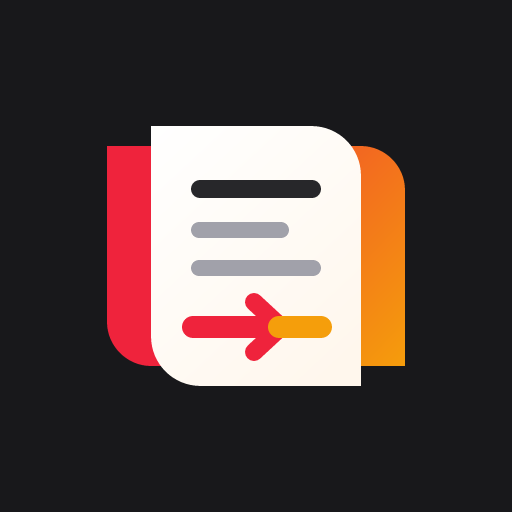
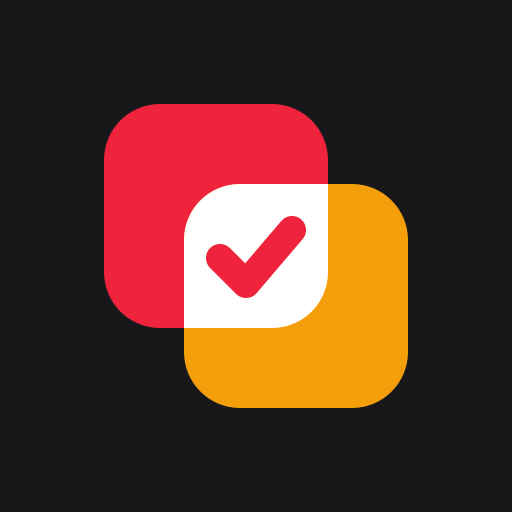
アプリのアイコンを、2つの履歴の重なりにチェックが付いた絵に変える (#133)
ブラウザのタブでは細部が潰れるため、チェックを省いた専用の絵を用意し、
初期テンプレートのままだった favicon.ico もそこから生成する。

Changed region(s): [[0.1875, 0.1875, 0.8125, 0.8125]]

diff --git a/app/root.tsx b/app/root.tsx
@@ -15,6 +15,8 @@ import "./app.css";
 
 export const links: Route.LinksFunction = () => [
   { rel: "manifest", href: "/manifest.webmanifest" },
+  { rel: "icon", href: "/favicon.ico", sizes: "48x48" },
+  { rel: "icon", href: "/favicon.svg", type: "image/svg+xml" },
   { rel: "apple-touch-icon", href: "/apple-touch-icon.png", sizes: "180x180" },
 ];
 
